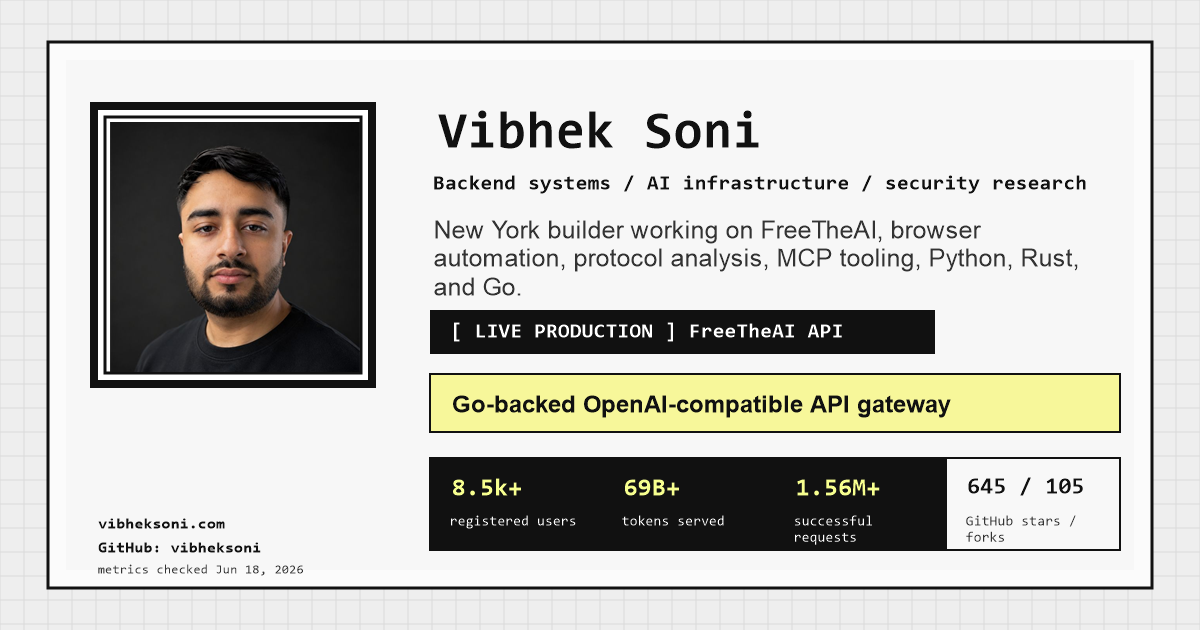
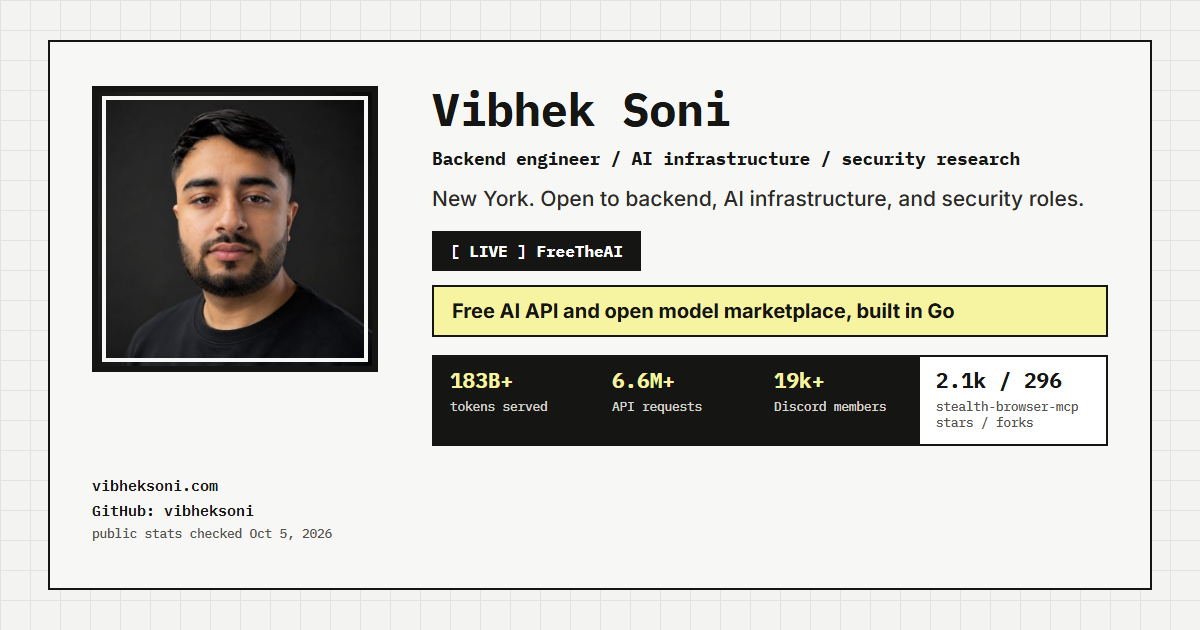
Refresh social image and align tagline with other profiles
- Regenerate the 1200x630 social preview with current public stats
  (183B+ tokens, 6.6M+ requests) and the open-to-roles line
- Use the shared "Backend engineer · AI infrastructure & security research" tagline

diff --git a/index.html b/index.html
@@ -290,7 +290,7 @@
             <div class="masthead-copy">
                 <h1>Vibhek Soni</h1>
                 <p class="site-tagline">
-                    Backend systems &middot; AI infrastructure &middot; security
+                    Backend engineer &middot; AI infrastructure &amp; security
                     research
                 </p>
                 <p class="site-note">
